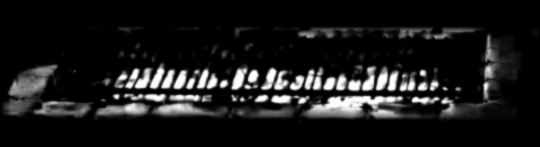
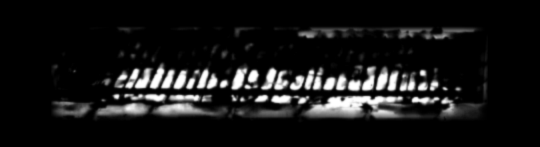
Roštilj: svetlucanje samo iznad ugljevlja, ne preko kamena; manji dim
Claude-Session: https://claude.ai/code/session_01GMM3Rnq6i1o8tZEuJzXhvg

Changed region(s): [[0.0, 0.4354, 0.1185, 0.7891], [0.8889, 0.2449, 0.9778, 0.7347]]

diff --git a/js/grill-fire.js b/js/grill-fire.js
@@ -13,11 +13,13 @@ var level=0,target=0,left=0,last=0,run=false,t=0,effects=[];
    sx0,sx1,sy = where the smoke starts (x range and y); patch = the cold coals patch (kitchen only) */
 function makeEffect(o){
   var cv=document.createElement('canvas');cv.width=o.cw;cv.height=o.ch;cv.className=o.cls||'';
-  var cx=cv.getContext('2d'),mimg=new Image(),mask=document.createElement('canvas'),cells=[],smoke=[],off=document.createElement('canvas'),ox;
+  var cx=cv.getContext('2d'),mimg=new Image(),mask=document.createElement('canvas'),pit=document.createElement('canvas'),cells=[],smoke=[],off=document.createElement('canvas'),ox;
   mimg.src=o.mask;off.width=o.cw;off.height=o.ch;ox=off.getContext('2d');
   var e={cv:cv,patch:o.patch||null};
   function pick(){
     mask.width=o.cw;mask.height=o.ch;var mk=mask.getContext('2d');mk.clearRect(0,0,o.cw,o.ch);mk.drawImage(mimg,o.mx,o.my);
+    // the pit: the mask of the embers a little blurred and spread (only the place of the coals, never the stones around); the breathing glow of the pit is clipped by it
+    pit.width=o.cw;pit.height=o.ch;var pk=pit.getContext('2d');pk.filter='blur('+(5*o.k).toFixed(1)+'px)';for(var q=0;q<4;q++)pk.drawImage(mask,0,0);pk.filter='none';
     var d=mk.getImageData(0,0,o.cw,o.ch).data,tries=0;cells=[];
     while(cells.length<o.n&&tries<9000){tries++;var x=Math.floor(Math.random()*o.cw),y=Math.floor(Math.random()*o.ch);if(d[(y*o.cw+x)*4+3]>110)cells.push({x:x,y:y,f:.7+Math.random()*2.6,p:Math.random()*6.28,n:Math.random(),r:(6+Math.random()*7)*o.k});}
   }
@@ -43,11 +45,13 @@ function makeEffect(o){
       blots(true);cx.globalCompositeOperation='lighter';cx.drawImage(off,0,0);
       var gx=o.mx+o.mw*.5,gy=o.my+o.mh*.52,g=cx.createRadialGradient(gx,gy,10*o.k,gx,gy,o.mw*.46);      // the whole pit breathes a little
       g.addColorStop(0,'rgba(255,120,30,'+((.05+.05*pulse)*level).toFixed(3)+')');g.addColorStop(1,'rgba(255,90,10,0)');
-      cx.globalCompositeOperation='lighter';cx.fillStyle=g;cx.fillRect(o.mx,o.my,o.mw,o.mh);cx.globalCompositeOperation='source-over';
+      ox.globalCompositeOperation='source-over';ox.clearRect(0,0,o.cw,o.ch);ox.fillStyle=g;ox.fillRect(o.mx,o.my,o.mw,o.mh);
+      ox.globalCompositeOperation='destination-in';ox.drawImage(pit,0,0);
+      cx.globalCompositeOperation='lighter';cx.drawImage(off,0,0);cx.globalCompositeOperation='source-over';
     }
-    if(level>.05&&Math.random()<dt*(1.2+3*level))smoke.push({x:o.sx0+Math.random()*(o.sx1-o.sx0),y:o.sy+Math.random()*20*o.k,vx:(6+Math.random()*10)*o.k,vy:-(14+Math.random()*14)*o.k,life:0,max:3.6+Math.random()*2.6,r:(7+Math.random()*7)*o.k,k:level});
+    if(level>.05&&Math.random()<dt*(1.2+3*level))smoke.push({x:o.sx0+Math.random()*(o.sx1-o.sx0),y:o.sy+Math.random()*20*o.k,vx:(6+Math.random()*10)*o.k,vy:-(10+Math.random()*9)*o.k,life:0,max:2.0+Math.random()*1.5,r:(5+Math.random()*5)*o.k,k:level});
     for(var i=smoke.length-1;i>=0;i--){var p=smoke[i];p.life+=dt;if(p.life>=p.max){smoke.splice(i,1);continue;}
-      p.x+=(p.vx+Math.sin(p.life*1.7+i)*6*o.k)*dt;p.y+=p.vy*dt;var f=p.life/p.max,rr=p.r*(1+f*2.8),al=.24*p.k*Math.sin(Math.min(1,f*3)*Math.PI/2)*(1-f);
+      p.x+=(p.vx+Math.sin(p.life*1.7+i)*6*o.k)*dt;p.y+=p.vy*dt;var f=p.life/p.max,rr=p.r*(1+f*1.3),al=.2*p.k*Math.sin(Math.min(1,f*3)*Math.PI/2)*(1-f);
       var gg=cx.createRadialGradient(p.x,p.y,0,p.x,p.y,rr);gg.addColorStop(0,'rgba(215,210,205,'+al.toFixed(3)+')');gg.addColorStop(1,'rgba(215,210,205,0)');cx.fillStyle=gg;cx.beginPath();cx.arc(p.x,p.y,rr,0,Math.PI*2);cx.fill();}
     return smoke.length>0;
   };
@@ -59,13 +63,13 @@ function build(){
   var sc0=document.getElementById('scene');if(!sc0)return false;
   var patch=document.createElement('img');patch.src='assets/effects/grill_coals_off.webp?v=1';patch.draggable=false;
   patch.style.cssText='position:absolute;left:230px;top:18px;width:540px;height:147px;opacity:1;transition:opacity 1.6s ease;pointer-events:none;z-index:2';
-  kitchen=makeEffect({cx:230,cy:0,cw:540,ch:165,mx:0,my:18,mw:540,mh:147,mask:'assets/effects/grill_embers_mask.png?v=1',n:90,k:1,sx0:60,sx1:480,sy:54,patch:patch});
+  kitchen=makeEffect({cx:230,cy:0,cw:540,ch:165,mx:0,my:18,mw:540,mh:147,mask:'assets/effects/grill_embers_mask.png?v=2',n:90,k:1,sx0:60,sx1:480,sy:54,patch:patch});
   kitchen.cv.style.cssText='position:absolute;left:230px;top:0;width:540px;height:165px;pointer-events:none;z-index:3';
   sc0.appendChild(patch);sc0.appendChild(kitchen.cv);effects.push(kitchen);return true;
 }
 /* the close-up of the grill: the canvas goes into the view (kitchen-fixtures.js) and follows the picture of the grill (same transform and opacity) */
 function zoomEffect(){
-  var e=makeEffect({cx:190,cy:0,cw:1220,ch:500,mx:15,my:322,mw:1187,mh:160,mask:'assets/effects/grill_zoom_mask.png?v=1',n:170,k:2.3,sx0:150,sx1:1100,sy:330,cls:'gz-fx'});
+  var e=makeEffect({cx:190,cy:0,cw:1220,ch:500,mx:15,my:322,mw:1187,mh:160,mask:'assets/effects/grill_zoom_mask.png?v=2',n:170,k:2.3,sx0:150,sx1:1100,sy:330,cls:'gz-fx'});
   e.cv.style.cssText='position:absolute;left:'+(190/1672*100)+'%;top:0;width:'+(1220/1672*100)+'%;height:'+(500/941*100)+'%;pointer-events:none;opacity:0';
   e.zoom=true;effects.push(e);kick();return e.cv;
 }

diff --git a/index.html b/index.html
@@ -211,7 +211,7 @@
 <script src="js/dough-mesh.js?v=21"></script>
 <script src="js/flour.js?v=64"></script>
 <script src="js/cloth-hand.js?v=7"></script>
-<script src="js/grill-fire.js?v=3"></script>
+<script src="js/grill-fire.js?v=6"></script>
 <script src="js/pitcher-pour.js?v=4"></script>
 <script src="js/kitchen-fixtures.js?v=71"></script>
 <script src="js/sink-dishes.js?v=2"></script>

diff --git a/NOTES.md b/NOTES.md
@@ -869,3 +869,4 @@ Kad serving.js nacrta sliku posude, sakriva staru masku prednjeg zida (ona je U-
 - Pali se cjepanicom iz ruke (klik cjepanicom na roštilj, ona se troši). Gori 4 min (do 8 min ako se dodaje), poslednjih 25 s se gasi. Iz koda: `CooksterGrill.set(true/false)`.
 - Nije urađeno: krupan plan roštilja (`assets/grill_zoom.webp`) ima svoje naslikane žeravice, ne prati ovo stanje.
 - Krupan plan roštilja (`assets/grill_zoom.webp`) prati isto stanje: ugašen = slika sa hladnim ugljem (`assets/grill_zoom_off.webp`, bira se pri otvaranju), upaljen = originalna slika + isto svetlucanje i dim preko nje (platno `.gz-fx` u prikazu, prati sliku pri zumiranju). `js/grill-fire.js` je sada "efekti": kuhinja i krupan plan dele nivo vatre.
+- Roštilj: svetlucanje je samo iznad ugljevlja, ne preko kamena: masku žeravica sam suzio sa strane (kuhinja i krupan plan), a "disanje" cele žeravice se sada seče istom (zamućenom) maskom ležišta umesto celim pravougaonikom. Dim je kraći, manji i slabiji, pa ne ide visoko preko kamenog zida.
